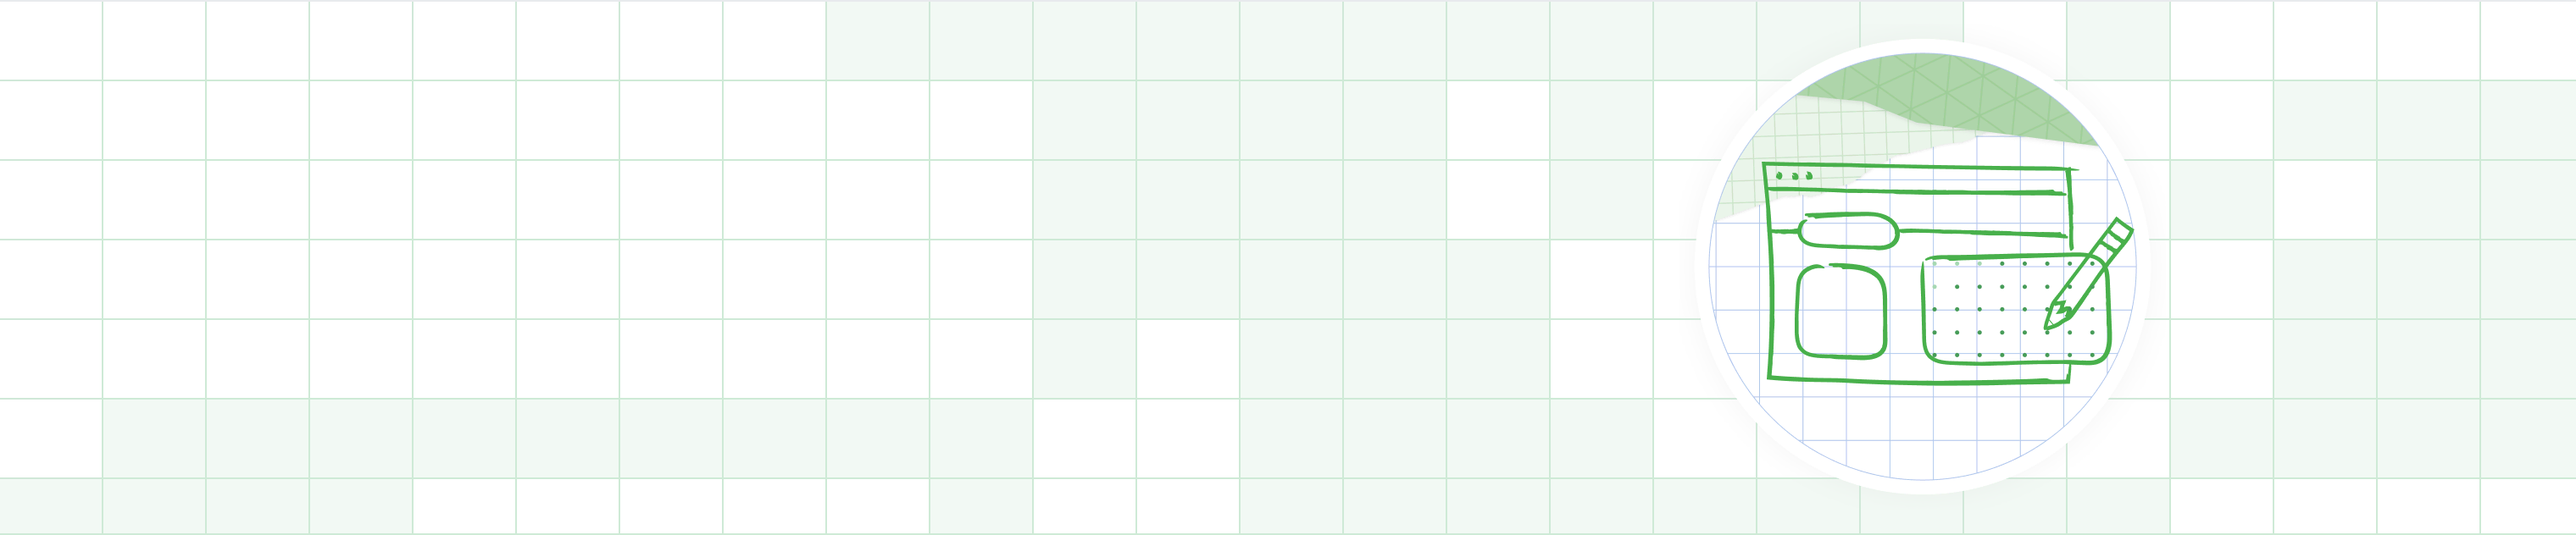
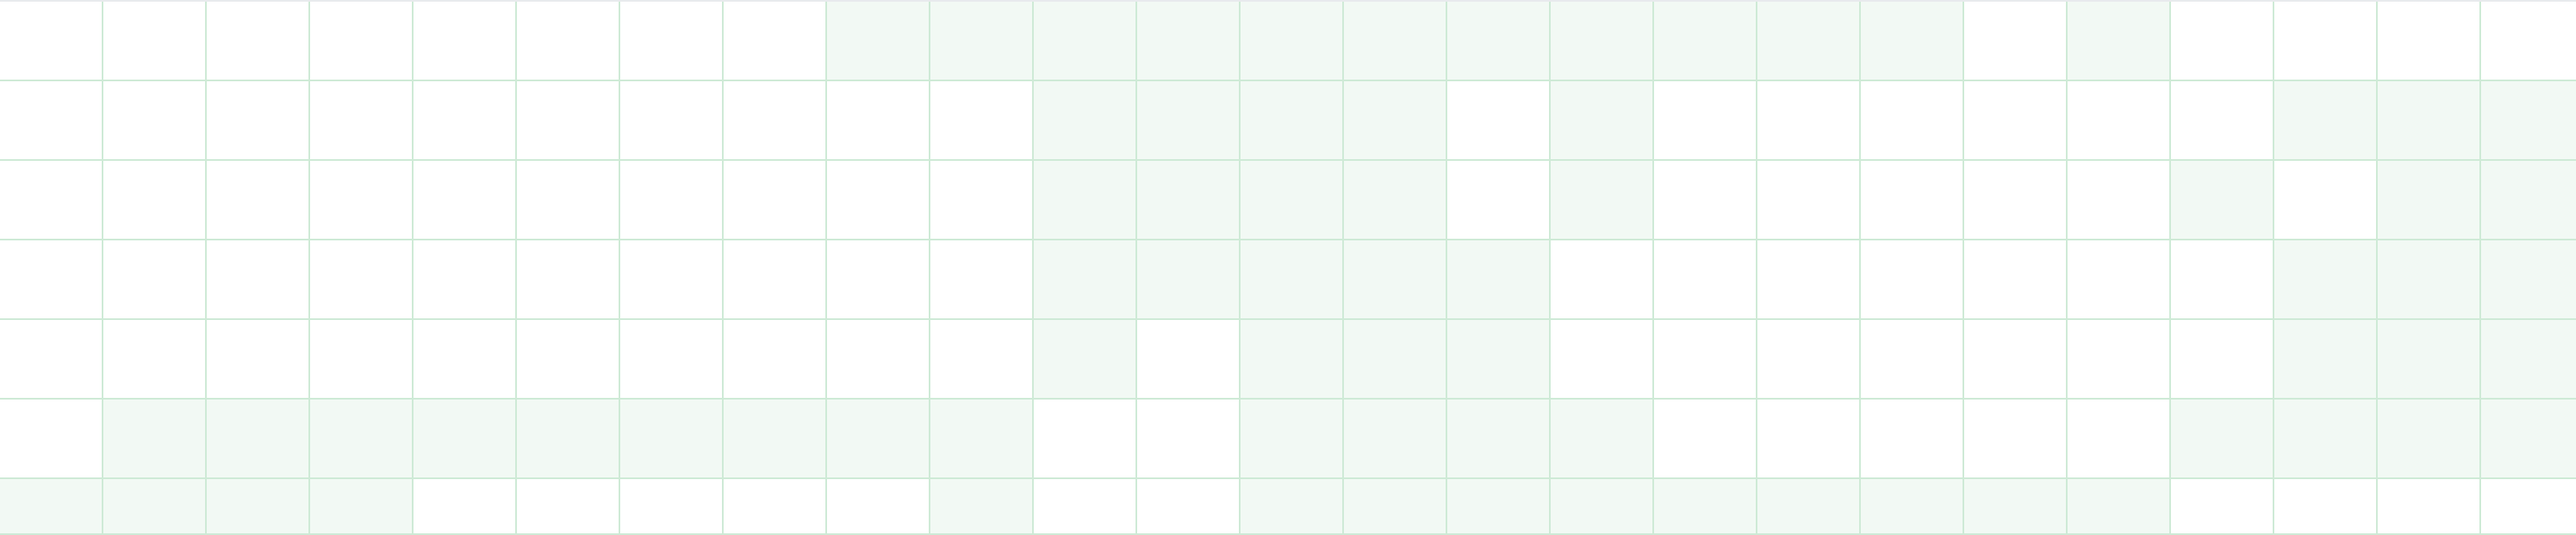
restyle hero

Changed region(s): [[0.6562, 0.0902, 0.8438, 0.7516], [0.7188, 0.8718, 0.7812, 0.9019], [0.75, 0.8117, 0.7812, 0.8418]]

diff --git a/app/src/views/About.vue b/app/src/views/About.vue
@@ -28,10 +28,11 @@
       "
     >
       <h1 class="full-bleed-hero-heading">About</h1>
-      <p class="mt-1">
+      <p class="mt-1 hero-description">
         Dev Library is a curated platform for technical content written or built using Google technologies like Android, Angular, Flutter, Firebase, Google Cloud, Machine Learning and Google Assistant. 
       </p>
     </div>
+    <img src="/img/banners/desktop/about-clipart.png" class="hero-clipart"/>
     <div
       id="header"
       class="grid gap-4 grid-cols-6 py-6 lg:py-10 border-b border-gray-100"

diff --git a/app/src/views/Repo.vue b/app/src/views/Repo.vue
@@ -51,7 +51,7 @@
                   class="opacity-80 hover:opacity-100"
                 />
               </p>
-              <p class="mt-2 repo-description">
+              <p class="mt-2 hero-description">
                 {{ repo.metadata.longDescription }}
               </p>
               <a
@@ -66,6 +66,7 @@
             </div>
           </div>
         </div>
+        <img src="/img/banners/desktop/repo-clipart.png" class="hero-clipart"/>
 
         <!-- Header (Mobile) -->
         <div class="mobile-only">

diff --git a/app/src/views/Authors.vue b/app/src/views/Authors.vue
@@ -26,10 +26,11 @@
       "
     >
       <h1 class="full-bleed-hero-heading">Authors</h1>
-      <p class="mt-1">
+      <p class="mt-1 hero-description">
         All content on Dev Library is contributed by our incredible authors!
       </p>
     </div>
+    <img src="/img/banners/desktop/authors-clipart.png" class="hero-clipart"/>
 
     <!-- Body -->
     <div id="pagebody" class="mb-4 px-std">

diff --git a/app/src/assets/css/tailwind.css b/app/src/assets/css/tailwind.css
@@ -258,8 +258,15 @@
       padding: 4px 6px;
     }
 
-    .repo-description {
-      max-width: 600px
+    .hero-description {
+      max-width: 600px;
+    }
+
+    .hero-clipart {
+      position: absolute;
+      width: 252px;
+      top: 17.5px;
+      left: 17.5px
     }
   }
 
